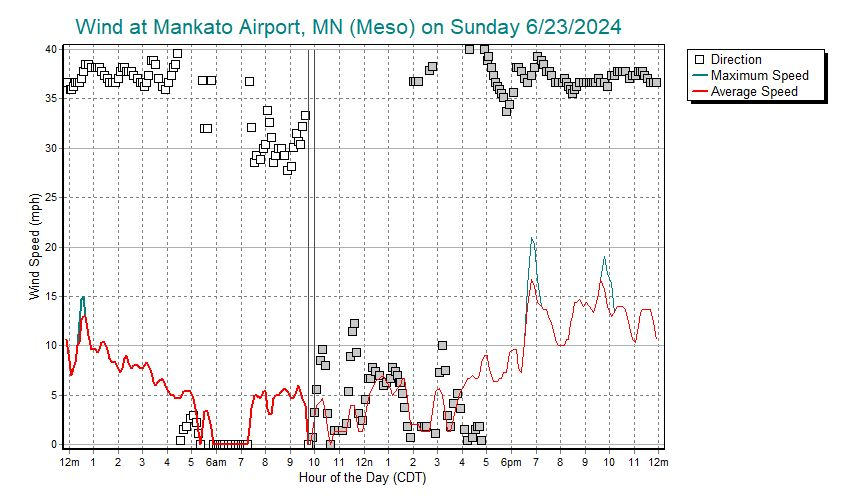
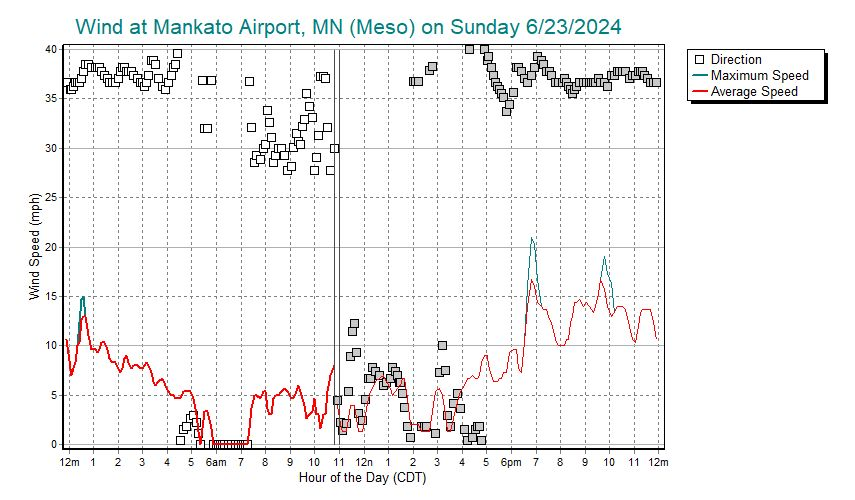
another update

Changed region(s): [[0.3345, 0.69, 0.4257, 0.9], [0.3345, 0.18, 0.3953, 0.36], [0.3649, 0.12, 0.3953, 0.18]]

diff --git a/charts.html b/charts.html
@@ -88,7 +88,7 @@
 	<p><b><font face="Arial" size="5">Samples from Rosy.asp</font></b></p>
    </div>
    <p><span>
-(24-hour charts updated Sunday, June 23, 2024 at 10:00AM Central).
+(24-hour charts updated Sunday, June 23, 2024 at 11:00AM Central).
    </span></p>
    <p>The orginal ASP page is named Rosy, a nickname windsurfers from the Tri-Cities gave Roosevelt, a sailing site on the east end of the Columbia River gorge.</p>
 	<p>This first pair of sample charts, wind and temperature, is updated every 

diff --git a/charts_input.html b/charts_input.html
@@ -88,7 +88,7 @@
 	<p><b><font face="Arial" size="5">Samples from Rosy.asp</font></b></p>
    </div>
    <p><span>
-(24-hour charts updated Sunday, June 23, 2024 at 10:00AM Central).
+(24-hour charts updated Sunday, June 23, 2024 at 11:00AM Central).
    </span></p>
    <p>The orginal ASP page is named Rosy, a nickname windsurfers from the Tri-Cities gave Roosevelt, a sailing site on the east end of the Columbia River gorge.</p>
 	<p>This first pair of sample charts, wind and temperature, is updated every 
